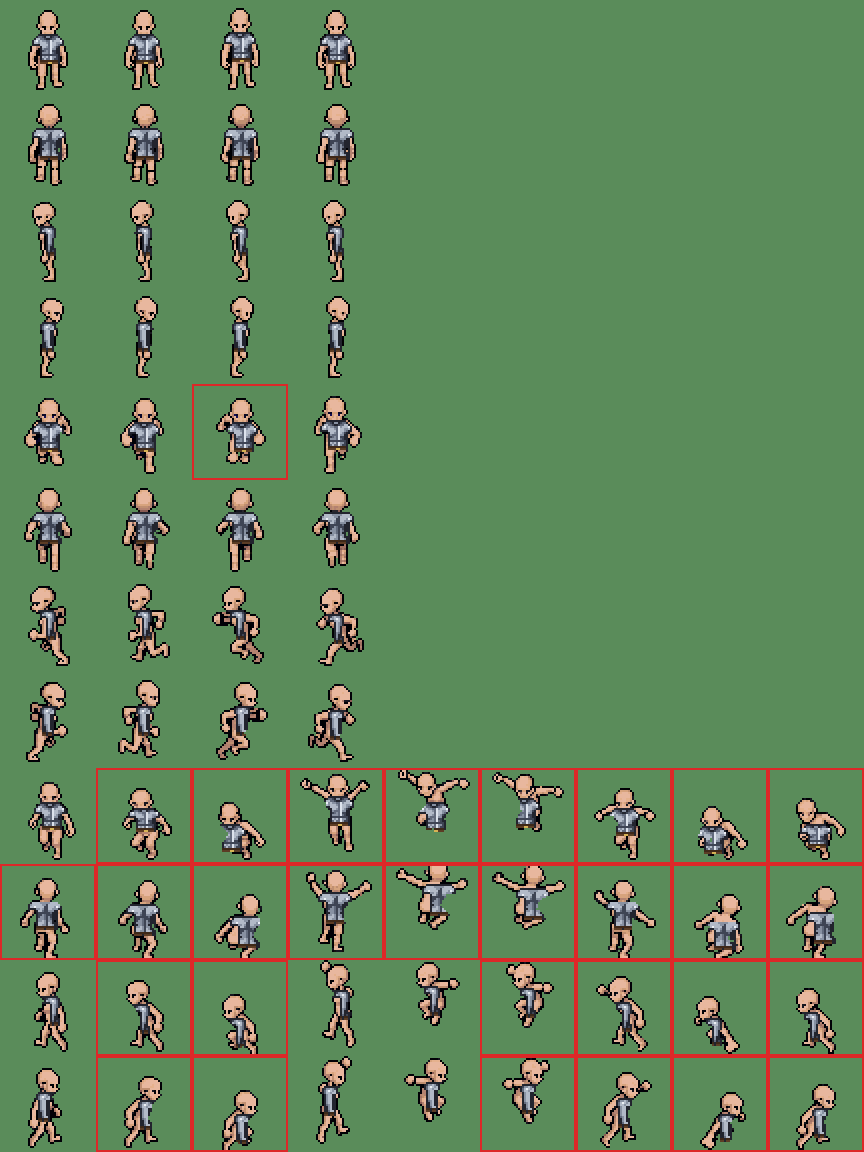
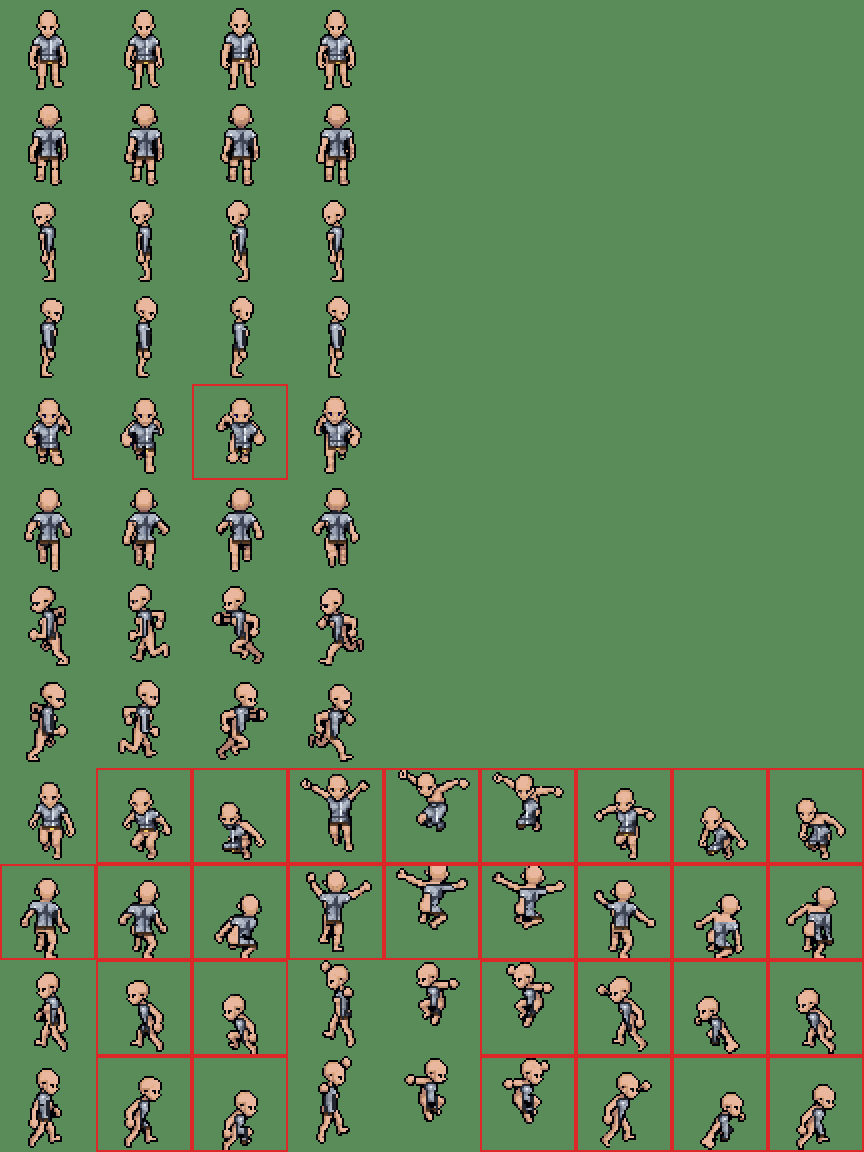
Dress the body in chest gear like the robe, instead of pasting a layer on top
- tools/gen_body_sheet.py: bakes a 4-direction gear drawing INTO every player
  frame: finds the frame's own torso (body parts split along the art's inner
  lines, arms crossing in front stay bare), repaints it with the gear keeping the
  frame's shading and the body's outline. Output is a full player sheet like
  player_new_robe.png.
- Items get body_sheet (+ body_jump_frames); the player swaps the body texture to
  the chest item's body_sheet. The robe now uses this too (no hard-coded id).
- Iron Chestplate rebuilt as a dressed sheet; new_gear.py dresses chest items and
  keeps overlay layers for helmets / shields.

Claude-Session: https://claude.ai/code/session_01EDJdevTTXkh2MxjtuxH8t8

diff --git a/tools/gen_body_sheet.py b/tools/gen_body_sheet.py
@@ -1,0 +1,222 @@
+"""Dresses the player in a piece of clothing / armour drawn in 4 directions, baking it INTO every
+frame of the body like the robe sheet (art/player_new_robe.png), so it looks worn, not pasted on.
+
+    python3 tools/gen_body_sheet.py art/gear_src/iron_chestplate_4dir.png art/player_iron_chestplate.png
+
+INPUT: 192x48 PNG, four 48x48 frames: down (front), up (back), left, right, each drawn over the
+first idle frame of that facing in art/player_new.png (the standing pose).
+
+OUTPUT: a full player sheet (same layout as art/player_new.png) with the gear painted in. In game
+the chest item's `body_sheet` replaces the body texture, exactly as the robe does.
+A preview is written to <input name>_preview.png (red = frames worth checking).
+
+How each frame is dressed:
+  1. The standing head + torso is found in the frame (shift, plus a squash for crouches), which
+     says where every gear pixel would land.
+  2. The frame's own body is split into parts along its dark inner lines (arms, torso, legs are
+     separated by outlines in the art). Parts that lie mostly under the gear are "covered";
+     an arm swinging across the chest is its own part, so it stays bare and in front.
+  3. Covered pixels are repainted with the gear's colour from the matching spot, keeping this
+     frame's light and shadow (brighter or darker than the standing pose), and the body's own
+     outline is kept, so the gear follows the silhouette of every pose.
+Fix single frames with <input name>_fix.json: {"row,col": [dx, dy, squash]} or "skip".
+"""
+import json
+import os
+import sys
+import numpy as np
+from PIL import Image, ImageDraw
+
+BASE = "art/player_new.png"
+FRAMES = [4, 4, 9]                    # idle, run, jump
+FACINGS = ["down", "up", "left", "right"]
+CELL = 48
+SEARCH = 16
+SQUASH = [1.0, 0.9, 0.8]
+UNSURE = 0.30
+DARK = 70                              # luminance below this is an outline / inner line
+
+
+def lum(a):
+    return 0.3 * a[..., 0] + 0.59 * a[..., 1] + 0.11 * a[..., 2]
+
+
+def frame(sheet, row, col):
+    return np.array(sheet.crop((col * CELL, row * CELL, col * CELL + CELL, row * CELL + CELL))).astype(np.float64)
+
+
+def squash(img, s, anchor):
+    if s == 1.0:
+        return img
+    out = np.zeros_like(img)
+    for y in range(CELL):
+        sy = int(round(anchor + (y - anchor) / s))
+        if 0 <= sy < CELL:
+            out[y] = img[sy]
+    return out
+
+
+def shift(img, dx, dy):
+    out = np.zeros_like(img)
+    ys, ye = max(dy, 0), min(CELL, CELL + dy)
+    xs, xe = max(dx, 0), min(CELL, CELL + dx)
+    out[ys:ye, xs:xe] = img[ys - dy:ye - dy, xs - dx:xe - dx]
+    return out
+
+
+def fit(template, mask, target, anchor):
+    t_alpha = target[..., 3] > 0
+    best = (9.0, 0, 0, 1.0)
+    for s in SQUASH:
+        tm = squash(template, s, anchor)
+        mm = squash(mask[..., None].astype(np.float64), s, anchor)[..., 0] > 0
+        n = mm.sum()
+        for dy in range(-SEARCH, SEARCH + 1):
+            for dx in range(-SEARCH, SEARCH + 1):
+                m2 = shift(mm[..., None].astype(np.float64), dx, dy)[..., 0] > 0
+                if m2.sum() < n * 0.9:
+                    continue
+                t2 = shift(tm, dx, dy)
+                diff = np.abs(t2[..., :3] - target[..., :3]).sum(axis=2) / (3 * 255.0)
+                cost = np.where(t_alpha, diff, 1.0)[m2].mean() + 0.004 * (abs(dx) + abs(dy)) + (1.0 - s) * 0.3
+                if cost < best[0]:
+                    best = (cost, dx, dy, s)
+    return best
+
+
+def components(skin):
+    """4-connected regions of skin pixels (the dark lines separate them). Returns a label array."""
+    lab = np.zeros(skin.shape, dtype=np.int32)
+    n = 0
+    for y in range(CELL):
+        for x in range(CELL):
+            if skin[y, x] and not lab[y, x]:
+                n += 1
+                stack = [(y, x)]
+                lab[y, x] = n
+                while stack:
+                    cy, cx = stack.pop()
+                    for ny, nx in ((cy + 1, cx), (cy - 1, cx), (cy, cx + 1), (cy, cx - 1)):
+                        if 0 <= ny < CELL and 0 <= nx < CELL and skin[ny, nx] and not lab[ny, nx]:
+                            lab[ny, nx] = n
+                            stack.append((ny, nx))
+    return lab, n
+
+
+def dress(target, stand, gear, gear_mask, dx, dy, s, anchor):
+    """Returns the target frame with the gear painted in."""
+    out = target.copy()
+    body = target[..., 3] > 0
+    L = lum(target)
+    dark = body & (L < DARK)
+    skin = body & ~dark
+    # where the gear lands in this frame
+    m = shift(squash(gear_mask[..., None].astype(np.float64), s, anchor), dx, dy)[..., 0] > 0
+    # body parts: covered if mostly under the gear
+    lab, n = components(skin)
+    covered = np.zeros_like(skin)
+    overlaps = [((lab == k) & m).sum() for k in range(1, n + 1)]
+    torso = 1 + int(np.argmax(overlaps)) if overlaps and max(overlaps) > 0 else 0
+    for k in range(1, n + 1):
+        part = lab == k
+        inside = overlaps[k - 1]
+        # the torso (the part most under the gear) always; other parts only if they sit mostly
+        # under it (a shoulder, a hip). An arm or leg crossing in front sticks out, so stays bare.
+        if k == torso or (inside >= 4 and inside >= 0.6 * part.sum()):
+            covered |= part & m
+    # inner lines inside the covered area (abs, chest lines) are painted over too;
+    # lines between covered and bare parts (an arm in front, the body's edge) stay
+    inner = np.zeros_like(dark)
+    for y in range(1, CELL - 1):
+        for x in range(1, CELL - 1):
+            if dark[y, x] and m[y, x]:
+                if (covered[y, x - 1] and covered[y, x + 1]) or (covered[y - 1, x] and covered[y + 1, x]):
+                    inner[y, x] = True
+    paint = covered | inner
+    gl = lum(gear)
+    sl = lum(stand)
+    for y in range(CELL):
+        for x in range(CELL):
+            if not paint[y, x]:
+                continue
+            # the matching spot in the standing pose
+            sy = int(round(anchor + (y - dy - anchor) / s))
+            sx = x - dx
+            col = None
+            for r in range(0, 3):                      # nearest gear pixel
+                for oy in range(-r, r + 1):
+                    for ox in range(-r, r + 1):
+                        qy, qx = sy + oy, sx + ox
+                        if 0 <= qy < CELL and 0 <= qx < CELL and gear[qy, qx, 3] > 0:
+                            col = (qy, qx)
+                            break
+                    if col:
+                        break
+                if col:
+                    break
+            if col is None:
+                continue
+            g = gear[col[0], col[1], :3]
+            if gl[col] < DARK:                         # the gear's own outlines / seams stay as drawn
+                out[y, x, :3] = g
+                out[y, x, 3] = 255
+                continue
+            # keep this frame's light and shadow relative to the standing pose
+            ref = sl[col] if stand[col[0], col[1], 3] > 0 and sl[col] >= DARK else L[y, x]
+            here = L[y, x] if not inner[y, x] else ref
+            ratio = np.clip(here / max(ref, 1.0), 0.8, 1.2)
+            out[y, x, :3] = np.clip(g * ratio, 0, 255)
+            out[y, x, 3] = 255
+    return out
+
+
+def main(src, dst):
+    sheet = Image.open(BASE).convert("RGBA")
+    gear_img = Image.open(src).convert("RGBA")
+    fix_path = os.path.splitext(src)[0] + "_fix.json"
+    fixes = json.load(open(fix_path)) if os.path.exists(fix_path) else {}
+    out = sheet.copy()
+    preview = Image.new("RGBA", sheet.size, (90, 140, 90, 255))
+    draw = ImageDraw.Draw(preview)
+    unsure = 0
+    for fi, facing in enumerate(FACINGS):
+        gear = np.array(gear_img.crop((fi * CELL, 0, fi * CELL + CELL, CELL))).astype(np.float64)
+        stand = frame(sheet, fi, 0)
+        gear_mask = gear[..., 3] > 0
+        rows = np.where((gear_mask & (stand[..., 3] > 0)).any(axis=1))[0]
+        anchor = int(rows.max())
+        fit_mask = stand[..., 3] > 0
+        fit_mask[anchor + 1:] = False                  # head + body down to the gear's lower edge
+        for anim, count in enumerate(FRAMES):
+            row = anim * 4 + fi
+            for col in range(count):
+                target = frame(sheet, row, col)
+                if not (target[..., 3] > 0).any():
+                    continue
+                key = "%d,%d" % (row, col)
+                if fixes.get(key) == "skip":
+                    continue
+                if key in fixes:
+                    cost, (dx, dy, s) = 0.0, fixes[key]
+                elif anim == 0 and col == 0:
+                    cost, dx, dy, s = 0.0, 0, 0, 1.0
+                else:
+                    cost, dx, dy, s = fit(stand, fit_mask, target, anchor)
+                dressed = dress(target, stand, gear, gear_mask, int(dx), int(dy), float(s), anchor)
+                tile = Image.fromarray(dressed.astype(np.uint8))
+                out.paste(tile, (col * CELL, row * CELL))
+                preview.alpha_composite(tile, (col * CELL, row * CELL))
+                if cost > UNSURE:
+                    unsure += 1
+                    draw.rectangle((col * CELL, row * CELL, col * CELL + CELL - 1, row * CELL + CELL - 1), outline=(220, 40, 40, 255))
+    out.save(dst)
+    prev = os.path.splitext(src)[0] + "_preview.png"
+    preview.resize((preview.width * 2, preview.height * 2), Image.NEAREST).save(prev)
+    print("wrote %s (%d frames worth checking: red in %s)" % (dst, unsure, prev))
+
+
+if __name__ == "__main__":
+    if len(sys.argv) != 3:
+        print(__doc__)
+        sys.exit(1)
+    main(sys.argv[1], sys.argv[2])

diff --git a/tools/new_gear.py b/tools/new_gear.py
@@ -9,9 +9,12 @@ above, export only the gear layer). Optionally also draw art/gear_src/<id>_icon.
 without one, the icon is made from the front view.
 
 It then:
-  1. fits the gear onto every walk / run / jump frame -> art/worn_<id>.png
-     (and a preview to check: art/gear_src/<id>_4dir_preview.png; see gen_worn_layer.py for
-     fixing single frames by hand),
+  1. puts the gear on every walk / run / jump frame:
+       chest   -> the body is DRESSED in it, like the robe: art/player_<id>.png, a whole player
+                  sheet that replaces the body while worn (tools/gen_body_sheet.py)
+       helmet / shield -> drawn on top as a layer: art/worn_<id>.png (tools/gen_worn_layer.py)
+     plus a preview to check: art/gear_src/<id>_4dir_preview.png (both tools explain how to fix
+     a single frame by hand),
   2. makes the paperdoll picture -> art/<id>_paperdoll.png,
   3. adds the icon to art/items.png and art/items_small.png (re-running replaces it in place),
   4. writes items/<id>.tres with the slot and stats given.
@@ -24,6 +27,7 @@ import sys
 from PIL import Image
 
 sys.path.insert(0, os.path.dirname(os.path.abspath(__file__)))
+import gen_body_sheet   # noqa: E402
 import gen_worn_layer   # noqa: E402
 
 SLOTS = ["helmet", "chest", "shield"]
@@ -75,12 +79,16 @@ def main():
     src = "art/gear_src/%s_4dir.png" % a.id
     if not os.path.exists(src):
         sys.exit("draw %s first (see the top of this file)" % src)
-    worn = "art/worn_%s.png" % a.id
-    gen_worn_layer.main(src, worn)
-
     front = Image.open(src).convert("RGBA").crop((0, 0, 48, 48))
-    doll = Image.open(gen_worn_layer.BASE).convert("RGBA").crop((0, 0, 48, 48))
-    doll.alpha_composite(front)
+    if a.slot == "chest":
+        art_path, field = "art/player_%s.png" % a.id, "body_sheet"
+        gen_body_sheet.main(src, art_path)
+        doll = Image.open(art_path).convert("RGBA").crop((0, 0, 48, 48))   # the dressed standing frame
+    else:
+        art_path, field = "art/worn_%s.png" % a.id, "worn_texture"
+        gen_worn_layer.main(src, art_path)
+        doll = Image.open(gen_worn_layer.BASE).convert("RGBA").crop((0, 0, 48, 48))
+        doll.alpha_composite(front)
     doll_path = "art/%s_paperdoll.png" % a.id
     doll.save(doll_path)
 
@@ -95,7 +103,7 @@ def main():
     with open(tres, "w") as f:
         f.write('[gd_resource type="Resource" script_class="Item" load_steps=4 format=3]\n\n')
         f.write('[ext_resource type="Script" path="res://scripts/item.gd" id="1_item"]\n')
-        f.write('[ext_resource type="Texture2D" path="res://%s" id="2_worn"]\n' % worn)
+        f.write('[ext_resource type="Texture2D" path="res://%s" id="2_art"]\n' % art_path)
         f.write('[ext_resource type="Texture2D" path="res://%s" id="3_doll"]\n\n' % doll_path)
         f.write('[resource]\nscript = ExtResource("1_item")\n')
         f.write('id = &"%s"\ndisplay_name = "%s"\n' % (a.id, a.name))
@@ -105,7 +113,7 @@ def main():
         if a.defense:
             f.write('defense = %s\n' % a.defense)
         f.write('equip_slot = "%s"\ntwo_handed = false\n' % a.slot)
-        f.write('worn_texture = ExtResource("2_worn")\npaperdoll_texture = ExtResource("3_doll")\n')
+        f.write('%s = ExtResource("2_art")\npaperdoll_texture = ExtResource("3_doll")\n' % field)
     print("made %s (icon frame %d)" % (tres, frame))
 
 
